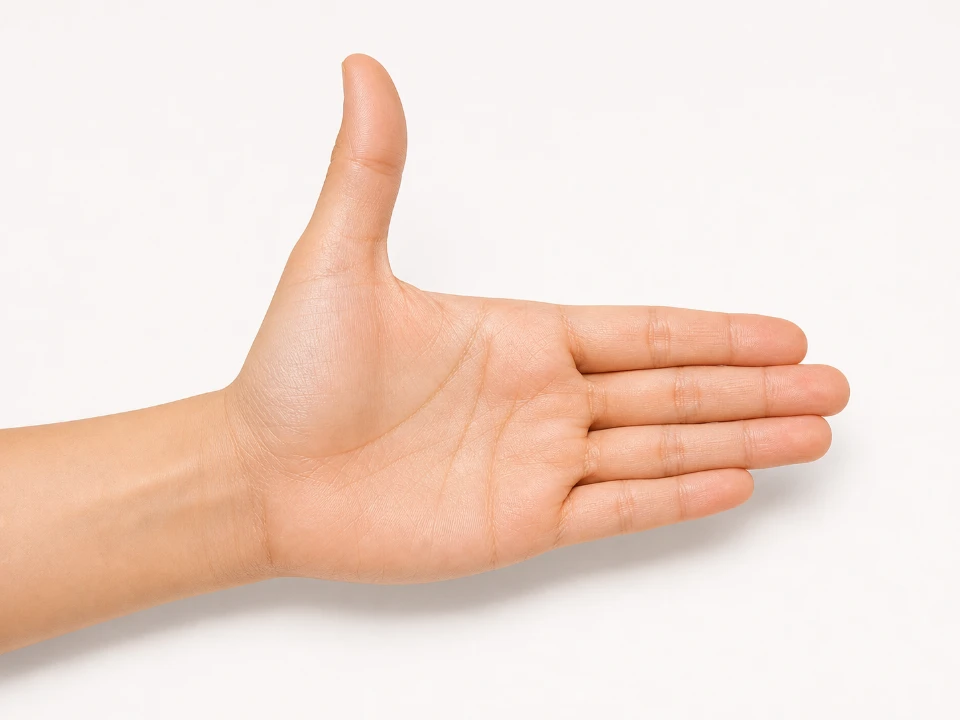
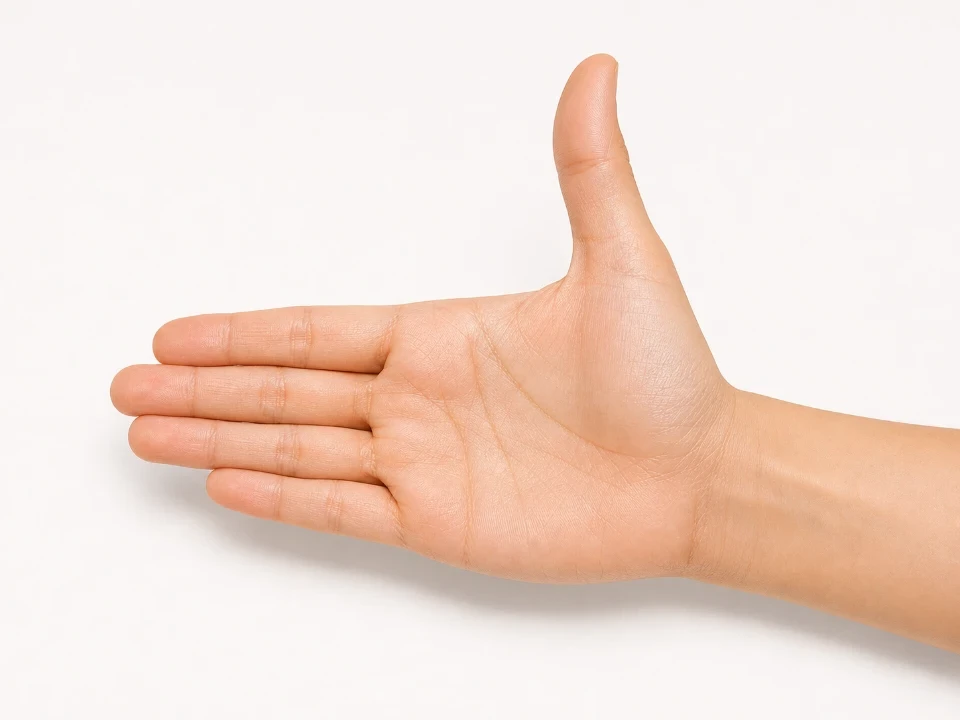
중2 VII 3차 피드백 — 그네 figTabs 3상태(그림 VII-13) + 오른손 palm + 전류색·병렬 컷 교정
- figTabs 범용 스텝 신설(세그 탭 → 그림+설명 교체, 전 탭 열람 시 CTA) — 교과서 "~할 때"
  상태 비교 그림의 인터랙션판. registry·dsl 등록
- 그네 정리 = 교과서 그림 VII-13 3상태(기본/전류 반전/극 반전): 직립 말굽자석 발주 2장(색 스왑
  같은 구도) + swingTabArt()가 코일 5턴·자기장·전류·힘 화살표·설명을 상태별로 벡터 오버레이.
  swingbase 하이브리드는 대체·삭제
- palm.webp 좌우 반전 — 물리 검산 결과 왼손(손바닥이 보이는 자세에서 네손가락→우·엄지→위는
  왼손만 가능): flip-img.mjs(범용화) + 라벨 미러
- 전동기 속컷 전류 화살표: 앰버 → 볼트 옐로+진갈색 테두리(구리 코일과 구분, motorArt 리드 화살표 동일)
- parallel 스틱맨 컷 세로 재발주(물이 위→아래, 가지 중앙 방아)
- e2e 갱신(L8: lab→figTabs→오른손→hotspot) — 8레슨 전 스텝 통과(pageerror 0)

diff --git a/src/content/g2/unit7.ts b/src/content/g2/unit7.ts
@@ -8,7 +8,7 @@
 // 전하·회로 소품 표현은 ui/elecKit(전자는 chemKit과 동일 톤) — 하드코딩 금지.
 import type { Unit } from "../curriculum";
 import {
-  hook, concept, recap, mcq, ox, multi, binSort, hotspot,
+  hook, concept, recap, mcq, ox, multi, binSort, hotspot, figTabs,
   frictionLab, rubLab, inductionLab, waterCircuit, ohmLab, circuitLab, coilFieldLab, swingLab3d,
 } from "../dsl";
 import {
@@ -66,28 +66,55 @@ const motorArt = (): string =>
     ])}
   </div>`;
 
-/** 그네 정리 그림 — 자석 단독 발주 사진 위에 코일 그네를 벡터로 얹는 하이브리드.
- *  '틈 사이 삽입' 구도는 발주가 4연속 실패한 지점 — 오버레이는 아래변이 정확히 틈(y≈67%)을 지난다. */
-const swingArt = (): string =>
-  `<div style="position:relative">
-    <img src="${IMG_BASE}elec/figs/swingbase.webp" alt="말굽자석(위팔 N·아래팔 S)과 지지대, 전지 — 코일 그네의 아래변이 두 팔 사이 틈을 지난다" style="display:block;width:100%;border-radius:14px"/>
-    <svg viewBox="0 0 100 75" preserveAspectRatio="none" style="position:absolute;inset:0;width:100%;height:100%" fill="none" stroke-linecap="round">
-      <path d="M42 7.2 C50 1.5 72 1 78 7 C83 12 83.5 36 81.5 53" stroke="#2E3540" stroke-width=".55" opacity=".85"/>
-      <path d="M62 7.4 C70 5 74 15 73.5 30 C73.2 42 70.5 49 68.2 52.5" stroke="#C43A2E" stroke-width=".55" opacity=".9"/>
-      <circle cx="42" cy="7.6" r="1" stroke="#8A5322" stroke-width=".5"/>
-      <circle cx="62" cy="7.6" r="1" stroke="#8A5322" stroke-width=".5"/>
-      <path d="M42 8.4 V50.3 H62 V8.4" stroke="#6E3F16" stroke-width="1.5"/>
-      <path d="M42 8.4 V50.3 H62 V8.4" stroke="#C97F3A" stroke-width="1"/>
-      <path d="M42.35 10 V48.5" stroke="#F0B87A" stroke-width=".26" opacity=".85"/>
-      <path d="M61.65 10 V48.5" stroke="#F0B87A" stroke-width=".26" opacity=".85"/>
+/** 그네 3상태 그림(figTabs용) — 직립 말굽자석 발주 2상태(swingtab-a/b) 위에 코일·자기장·전류·힘을
+ *  벡터로 얹는다(교과서 그림 VII-13 모작 — '기본 / 전류 반전 / 극 반전' 비교). viewBox 100×100(=이미지 %).
+ *  전류 화살표는 볼트 옐로 + 진갈색 테두리(구리 코일과 구분 — 3차 피드백). */
+const swingTabArt = (state: "base" | "flipI" | "flipB"): string => {
+  const img = state === "flipB" ? "swingtab-b" : "swingtab-a";
+  const fieldUp = state !== "flipB"; // a: 아래 N(빨강)→위 S(파랑) = 위쪽
+  const curRight = state !== "flipI";
+  const forceOut = state === "base";
+  const turns = [0, 0.9, 1.8, 2.7, 3.6]
+    .map(
+      (d) =>
+        `<path d="M${64 + d} 8 V52 H${84 + d} V8" stroke="#6E3F16" stroke-width="1.7"/><path d="M${64 + d} 8 V52 H${84 + d} V8" stroke="#C97F3A" stroke-width="1.05"/>`,
+    )
+    .join("");
+  const fieldArrows = [44, 52, 60]
+    .map((x) =>
+      fieldUp
+        ? `<path d="M${x} 62 V46" stroke="#E0452E" stroke-width="1.5" opacity=".8"/><path d="M${x - 2} 47 L${x} 41 L${x + 2} 47 Z" fill="#E0452E" opacity=".85"/>`
+        : `<path d="M${x} 42 V58" stroke="#E0452E" stroke-width="1.5" opacity=".8"/><path d="M${x - 2} 57 L${x} 63 L${x + 2} 57 Z" fill="#E0452E" opacity=".85"/>`,
+    )
+    .join("");
+  const cur = curRight
+    ? `<path d="M68 52 H78" stroke="#6E3F16" stroke-width="2.6"/><path d="M68 52 H78" stroke="#FFD400" stroke-width="1.5"/><path d="M78 50.2 L82 52 L78 53.8 Z" fill="#FFD400" stroke="#6E3F16" stroke-width=".5"/>`
+    : `<path d="M80 52 H70" stroke="#6E3F16" stroke-width="2.6"/><path d="M80 52 H70" stroke="#FFD400" stroke-width="1.5"/><path d="M70 50.2 L66 52 L70 53.8 Z" fill="#FFD400" stroke="#6E3F16" stroke-width=".5"/>`;
+  const force = forceOut
+    ? `<path d="M78 57 L90 60.2" stroke="#0B9E96" stroke-width="2.2"/><path d="M89 56.8 L96 62 L87.8 63.8 Z" fill="#0B9E96"/>`
+    : `<path d="M72 57 L60 60.2" stroke="#0B9E96" stroke-width="2.2"/><path d="M61 56.8 L54 62 L62.2 63.8 Z" fill="#0B9E96"/>`;
+  const poleTop = state === "flipB" ? { t: "N극", c: "#C4302B" } : { t: "S극", c: "#1B64DA" };
+  const poleBot = state === "flipB" ? { t: "S극", c: "#1B64DA" } : { t: "N극", c: "#C4302B" };
+  const alt =
+    state === "base" ? "기본 상태 — 힘은 바깥쪽" : state === "flipI" ? "전류 방향을 바꾼 상태 — 힘은 안쪽" : "자석의 두 극을 바꾼 상태 — 힘은 안쪽";
+  return `<div style="position:relative">
+    <img src="${IMG_BASE}elec/figs/${img}.webp" alt="직립 말굽자석 사이에 걸린 코일 그네 — ${alt}" style="display:block;width:100%;border-radius:14px"/>
+    <svg viewBox="0 0 100 100" preserveAspectRatio="none" style="position:absolute;inset:0;width:100%;height:100%" fill="none" stroke-linecap="round">
+      <path d="M66 0 V8 M86 0 V8" stroke="#8A93A6" stroke-width=".7"/>
+      ${turns}
+      ${fieldArrows}
+      ${cur}
+      ${force}
     </svg>
     ${pills([
-      { x: 33, y: 58, t: "N극", c: "#C4302B" },
-      { x: 31, y: 77, t: "S극", c: "#1B64DA" },
-      { x: 52, y: 24, t: "코일 그네" },
-      { x: 74, y: 64, t: "전원(전지)" },
+      { x: 70, y: 24, t: poleTop.t, c: poleTop.c },
+      { x: 70, y: 80, t: poleBot.t, c: poleBot.c },
+      { x: 47, y: 33, t: "자기장", c: "#C4302B" },
+      { x: 73, y: 43, t: "전류", c: "#8A6600" },
+      forceOut ? { x: 86, y: 69, t: "힘 — 바깥쪽!", c: "#0B7285" } : { x: 61, y: 69, t: "힘 — 안쪽!", c: "#0B7285" },
     ])}
   </div>`;
+};
 
 // ══════════════════════════════════════════════════════════
 // 레슨 1. 마찰 전기 (책 244~245쪽)
@@ -1004,31 +1031,48 @@ const L8 = {
     swingLab3d({
       title: "말굽자석 전기 그네 —<br>3D 실험실",
       lead: "자석 틈의 코일 그네에 전류를 켜 보세요. 전류 방향·자석 극·세기를 바꾸면 힘이 어떻게 변할까요?",
-      cta: "그림으로 정리하기",
+      cta: "세 장면으로 정리하기",
+    }),
+    figTabs({
+      title: "그네는 어느 쪽으로?<br>세 장면 비교",
+      lead: "방금 실험의 세 가지 상황 — 위 탭을 눌러 가며 힘의 방향이 어떻게 바뀌는지 비교해 봐요.",
+      tabs: [
+        {
+          name: "기본",
+          art: swingTabArt("base"),
+          cap: "전기 그네는 말굽자석 <b>바깥쪽</b>으로 힘을 받아 움직여요.",
+        },
+        {
+          name: "전류 방향 반전",
+          art: swingTabArt("flipI"),
+          cap: "코일에 흐르는 <b>전류의 방향이 바뀌면</b> — 전기 그네는 말굽자석 <b>안쪽</b>으로 힘을 받아 움직여요.",
+        },
+        {
+          name: "자석 극 반전",
+          art: swingTabArt("flipB"),
+          cap: "말굽자석의 두 극을 바꿔 <b>자기장의 방향이 바뀌면</b> — 역시 전기 그네는 <b>안쪽</b>으로 힘을 받아 움직여요.",
+        },
+      ],
+      cta: "오른손에 담기",
     }),
     concept({
-      kicker: "그림으로 정리",
+      kicker: "쉽게 기억하는 법",
       kickerTone: "elec",
       title: "그네를 민 힘,<br>오른손에 담기",
-      lead: "방금 한 실험을 실제 장치 그림으로 한 번 더 — 힘의 방향을 찾는 손 모양까지.",
+      lead: "세 장면의 힘의 방향 — 오른손 하나로 전부 찾을 수 있어요.",
       blocks: [
         {
           k: "figure",
-          svg: swingArt(),
-          cap: "N극과 S극 사이 틈 — 그 속을 지나는 코일 아래변이 힘을 받아 그네 전체가 밀려나요",
-        },
-        {
-          k: "figure",
           svg: elabeled("figs/palm.webp", "펼친 오른손 — 네 손가락은 자기장, 엄지는 전류, 손바닥이 미는 쪽이 힘", [
-            { x: 80, y: 44, t: "네 손가락 = 자기장", c: "#C4302B" },
-            { x: 37, y: 12, t: "엄지 = 전류", c: "#B87700" },
-            { x: 47, y: 66, t: "손바닥이 미는 쪽 = 힘", c: "#0B7285" },
+            { x: 20, y: 44, t: "네 손가락 = 자기장", c: "#C4302B" },
+            { x: 63, y: 12, t: "엄지 = 전류", c: "#B87700" },
+            { x: 53, y: 66, t: "손바닥이 미는 쪽 = 힘", c: "#0B7285" },
           ]),
           cap: "오른손을 쫙 펴서 — 네 손가락은 자기장, 엄지는 전류 방향으로. 손바닥이 미는 쪽이 힘!",
         },
         {
           k: "p",
-          html: "실험의 네 가지 발견과 손 모양이 딱 맞아요 — 전류를 <b>뒤집으면</b>(엄지 반대) 힘도 반대, 자석 극을 <b>바꾸면</b>(네 손가락 반대) 힘도 반대, <b>둘 다 뒤집으면</b> 도로 원래 방향!",
+          html: "세 장면과 손 모양이 딱 맞아요 — 전류를 <b>뒤집으면</b>(엄지 반대) 손바닥도 반대, 자석 극을 <b>바꾸면</b>(네 손가락 반대) 역시 반대. <b>둘 다 뒤집으면</b>? 도로 원래 방향!",
         },
       ],
       cta: "전동기 원리로",

diff --git a/src/lessons/steps/figTabs.ts b/src/lessons/steps/figTabs.ts
@@ -1,0 +1,69 @@
+// figTabs — 그림 상태 전환 스텝. 세그 탭을 누르면 그림과 설명이 함께 바뀐다.
+// 교과서의 "~할 때" 상태 비교 그림(전기 그네 3상태 등)을 탭 인터랙션으로 옮기는 범용 위젯.
+// 모든 탭을 한 번씩 봐야 CTA가 열린다(채점 없음 — 관찰 스텝).
+
+import { el, clear } from "../../core/dom";
+import { haptic, HAPTIC } from "../../core/haptics";
+import type { StepRenderer } from "../types";
+
+interface FigTab {
+  name: string;
+  art: string; // HTML(발주 이미지 + SVG 오버레이 등)
+  cap: string; // 설명(HTML)
+}
+interface FigTabsStep {
+  title: string;
+  lead?: string;
+  tabs: FigTab[];
+  cta?: string;
+}
+
+export const figTabs: StepRenderer = (host, step, api) => {
+  const s = step as unknown as FigTabsStep;
+  host.appendChild(el("div", { class: "h1", html: s.title }));
+  if (s.lead) host.appendChild(el("div", { class: "sub", html: s.lead }));
+
+  const seg = el("div", { class: "seg", style: "margin-top:14px" });
+  const artBox = el("div", { class: "c-figure-art" });
+  const capBox = el("div", { class: "c-figure-cap" });
+  const card = el("div", { class: "c-figure figtabs" }, artBox, capBox);
+  host.append(seg, card);
+
+  const seen = new Set<number>();
+  const btns: HTMLButtonElement[] = [];
+
+  function show(i: number): void {
+    btns.forEach((b, k) => {
+      b.classList.toggle("on", k === i);
+      b.setAttribute("aria-pressed", String(k === i));
+    });
+    // 짧은 페이드로 전환이 읽히게
+    artBox.style.opacity = "0";
+    window.setTimeout(() => {
+      clear(artBox);
+      artBox.innerHTML = s.tabs[i].art;
+      capBox.innerHTML = s.tabs[i].cap;
+      artBox.style.opacity = "1";
+    }, 90);
+    if (!seen.has(i)) {
+      seen.add(i);
+      if (seen.size === s.tabs.length) api.enableCTA(s.cta ?? "다음");
+    }
+  }
+
+  s.tabs.forEach((t, i) => {
+    const b = el("button", { text: t.name, attrs: { type: "button", "aria-pressed": String(i === 0) } });
+    b.addEventListener("click", () => {
+      haptic(HAPTIC.select);
+      show(i);
+    });
+    btns.push(b);
+    seg.appendChild(b);
+  });
+
+  artBox.style.transition = "opacity .16s ease-out";
+  artBox.innerHTML = s.tabs[0].art;
+  capBox.innerHTML = s.tabs[0].cap;
+  seen.add(0);
+  api.setCTA("세 장면을 모두 확인해요", { enabled: false });
+};

diff --git a/src/content/dsl.ts b/src/content/dsl.ts
@@ -59,6 +59,13 @@ export const hotspot = (o: {
   mode?: "reveal" | "find"; explainGood?: string; explainBad?: string;
 }): Step => ({ type: "hotspot", ...o });
 
+/** 그림 상태 전환(세그 탭 → 그림+설명 교체) — 교과서 "~할 때" 상태 비교 그림의 인터랙션판 */
+export const figTabs = (o: {
+  title: string; lead?: string;
+  tabs: { name: string; art: string; cap: string }[];
+  cta?: string;
+}): Step => ({ type: "figTabs", ...o });
+
 export const hook = (o: {
   title: string; lead?: string; narrator: string; done?: string;
   scene: "cups" | "egg" | "beach" | "wire" | "smell" | "juice" | "wrap" | "ramen"

diff --git a/src/lessons/registry.ts b/src/lessons/registry.ts
@@ -73,6 +73,7 @@ import { ohmLab } from "./steps/elecOhm";
 import { circuitLab } from "./steps/elecCircuit";
 import { coilFieldLab } from "./steps/elecCoil";
 import { swingLab3d } from "./steps/elecSwing3d";
+import { figTabs } from "./steps/figTabs";
 import { densityLab } from "./steps/densityLab";
 import { densityPool } from "./steps/densityPool";
 import { solubilityLab } from "./steps/solubilityLab";
@@ -157,6 +158,7 @@ const R: Record<string, StepRenderer> = {
   circuitLab,
   coilFieldLab,
   swingLab3d,
+  figTabs,
   densityLab,
   densityPool,
   solubilityLab,

diff --git a/CLAUDE.md b/CLAUDE.md
@@ -473,9 +473,14 @@ src/
   손 없이 구조만) + `motorArt()`가 자기장·전류 방향을 SVG 오버레이로 얹고, 코일 **왼쪽 변·오른쪽 변**
   스팟 탭 → 속컷 SVG(motor-left/right.svg — 전류·자기장·힘 3화살표) 카드. **hs-photo 카드는 170px
   고정·object-fit:cover** — 속컷 도해는 400×184(표시 비율)로 저작하고 y≈146 아래(캡션 필 영역)를 비운다.
-- **그네 정리 그림은 하이브리드 확정**: '틈 사이 삽입' 구도는 codex가 4연속 실패(옆에 걸침·비뚤어짐) →
-  자석 단독(swingbase.webp, "NO wire/coil" 발주) + `swingArt()`가 코일 그네·리드선을 SVG로 얹어 아래변이
-  정확히 틈(y≈67%)을 지난다. 발주 사진 위 벡터 오버레이 좌표는 viewBox 100×75(=이미지 %) 관례.
+- **그네 정리는 figTabs 3상태**(3차 피드백 — 교과서 그림 VII-13 그대로): `figTabs` 범용 스텝(steps/figTabs.ts,
+  세그 탭 → 그림+설명 교체, 전 탭 열람 시 CTA — 교과서 "~할 때" 상태 비교 그림의 인터랙션판) +
+  직립 말굽자석 발주 2상태(swingtab-a: 위 파랑 S·아래 빨강 N / swingtab-b: 색 스왑, 같은 구도 지시) 위에
+  `swingTabArt()`가 코일 5턴·자기장·전류·힘을 벡터로 얹는다. '틈 사이 삽입' 구도는 codex가 4연속 실패 —
+  자석만 발주 + SVG 오버레이가 확정 해법. 오버레이 좌표는 viewBox = 이미지 %(정사각 100×100, 4:3 100×75).
+- **전류 화살표는 볼트 옐로(#FFD400)+진갈색(#6E3F16) 테두리** — 앰버는 구리 코일과 색이 겹쳐 구분 불가
+  (3차 피드백). 발주 손 사진은 왼손이 나올 수 있다 — 물리 검산(F=IL×B로 손바닥 방향 확인) 후
+  `qa/flip-img.mjs <경로>`로 좌우 반전(거울상=반대 손), 라벨 x는 100−x로 미러.
 - swingLab3d 자기장 ArrowHelper는 극 반전 시 **방향과 함께 origin.y도 ±18 이동**(BOT_Y+18·poleDir) —
   고정 origin이면 반전 때 화살표가 위 극 블록 속으로 숨는다(실사용 피드백 버그).
 - 교과서 도해 확인이 필요하면 **pymupdf(fitz)로 페이지를 렌더**해서 Read로 본다(`py -m pip install pymupdf`) —